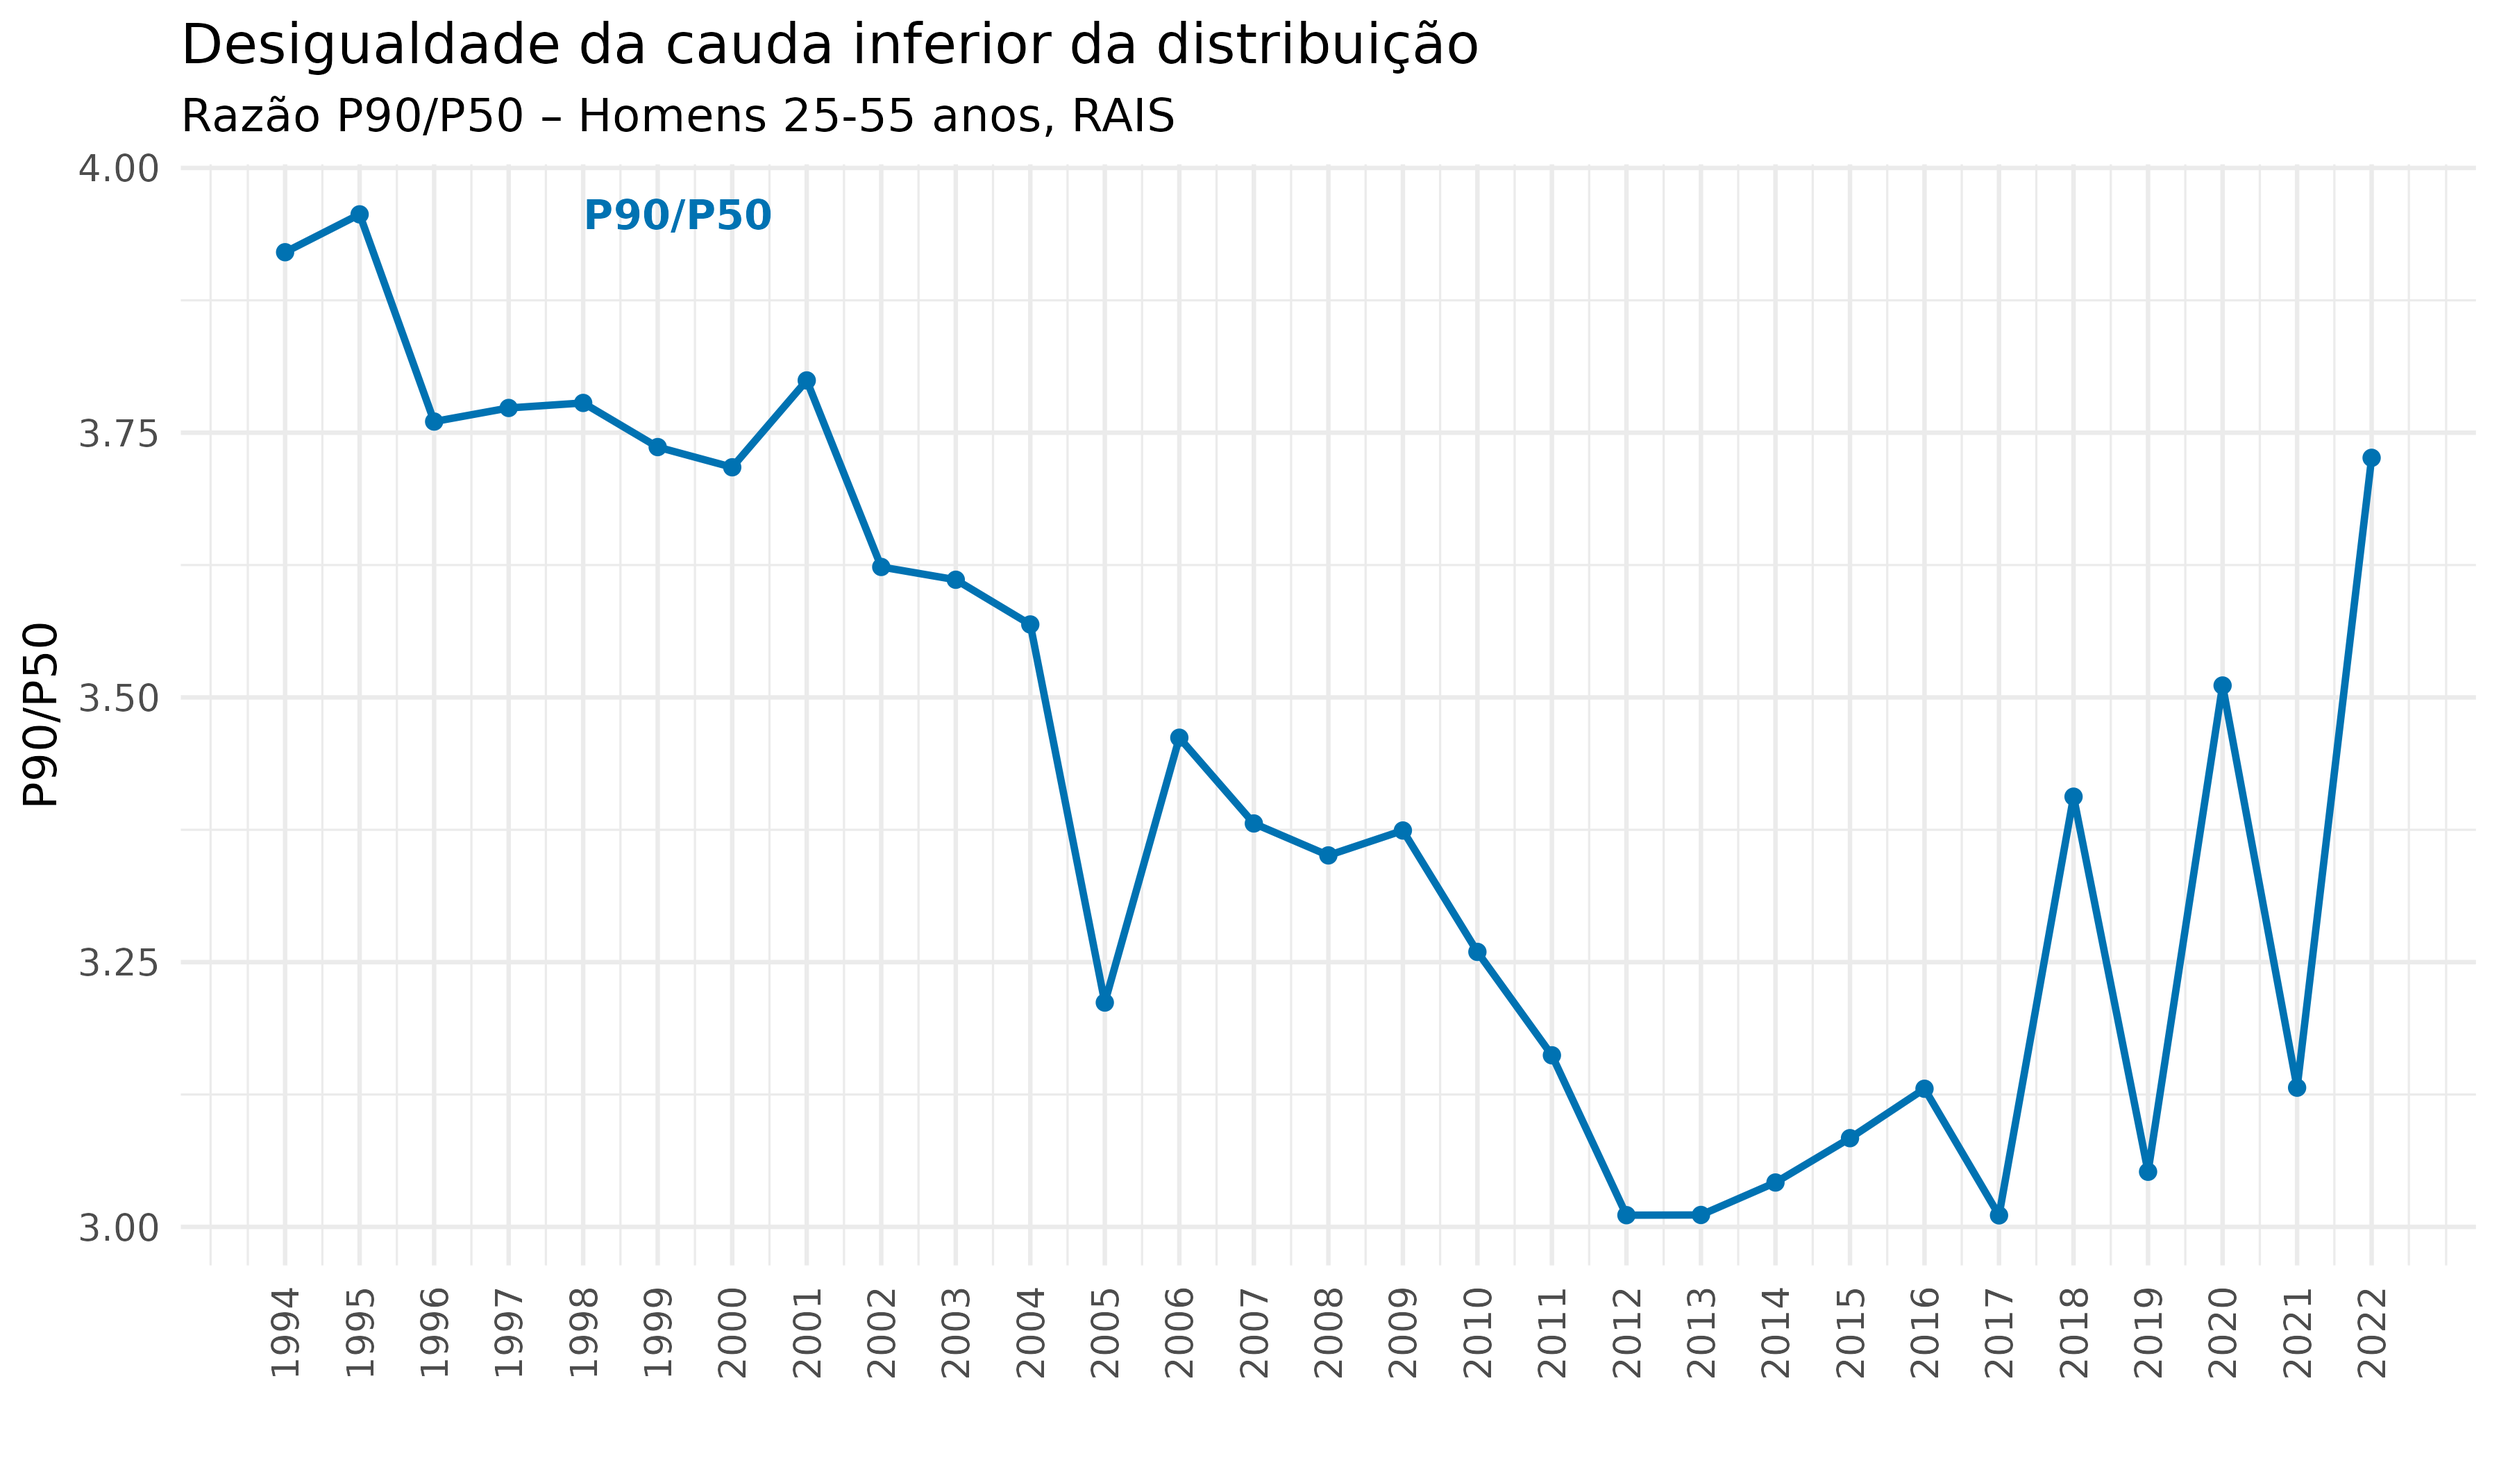
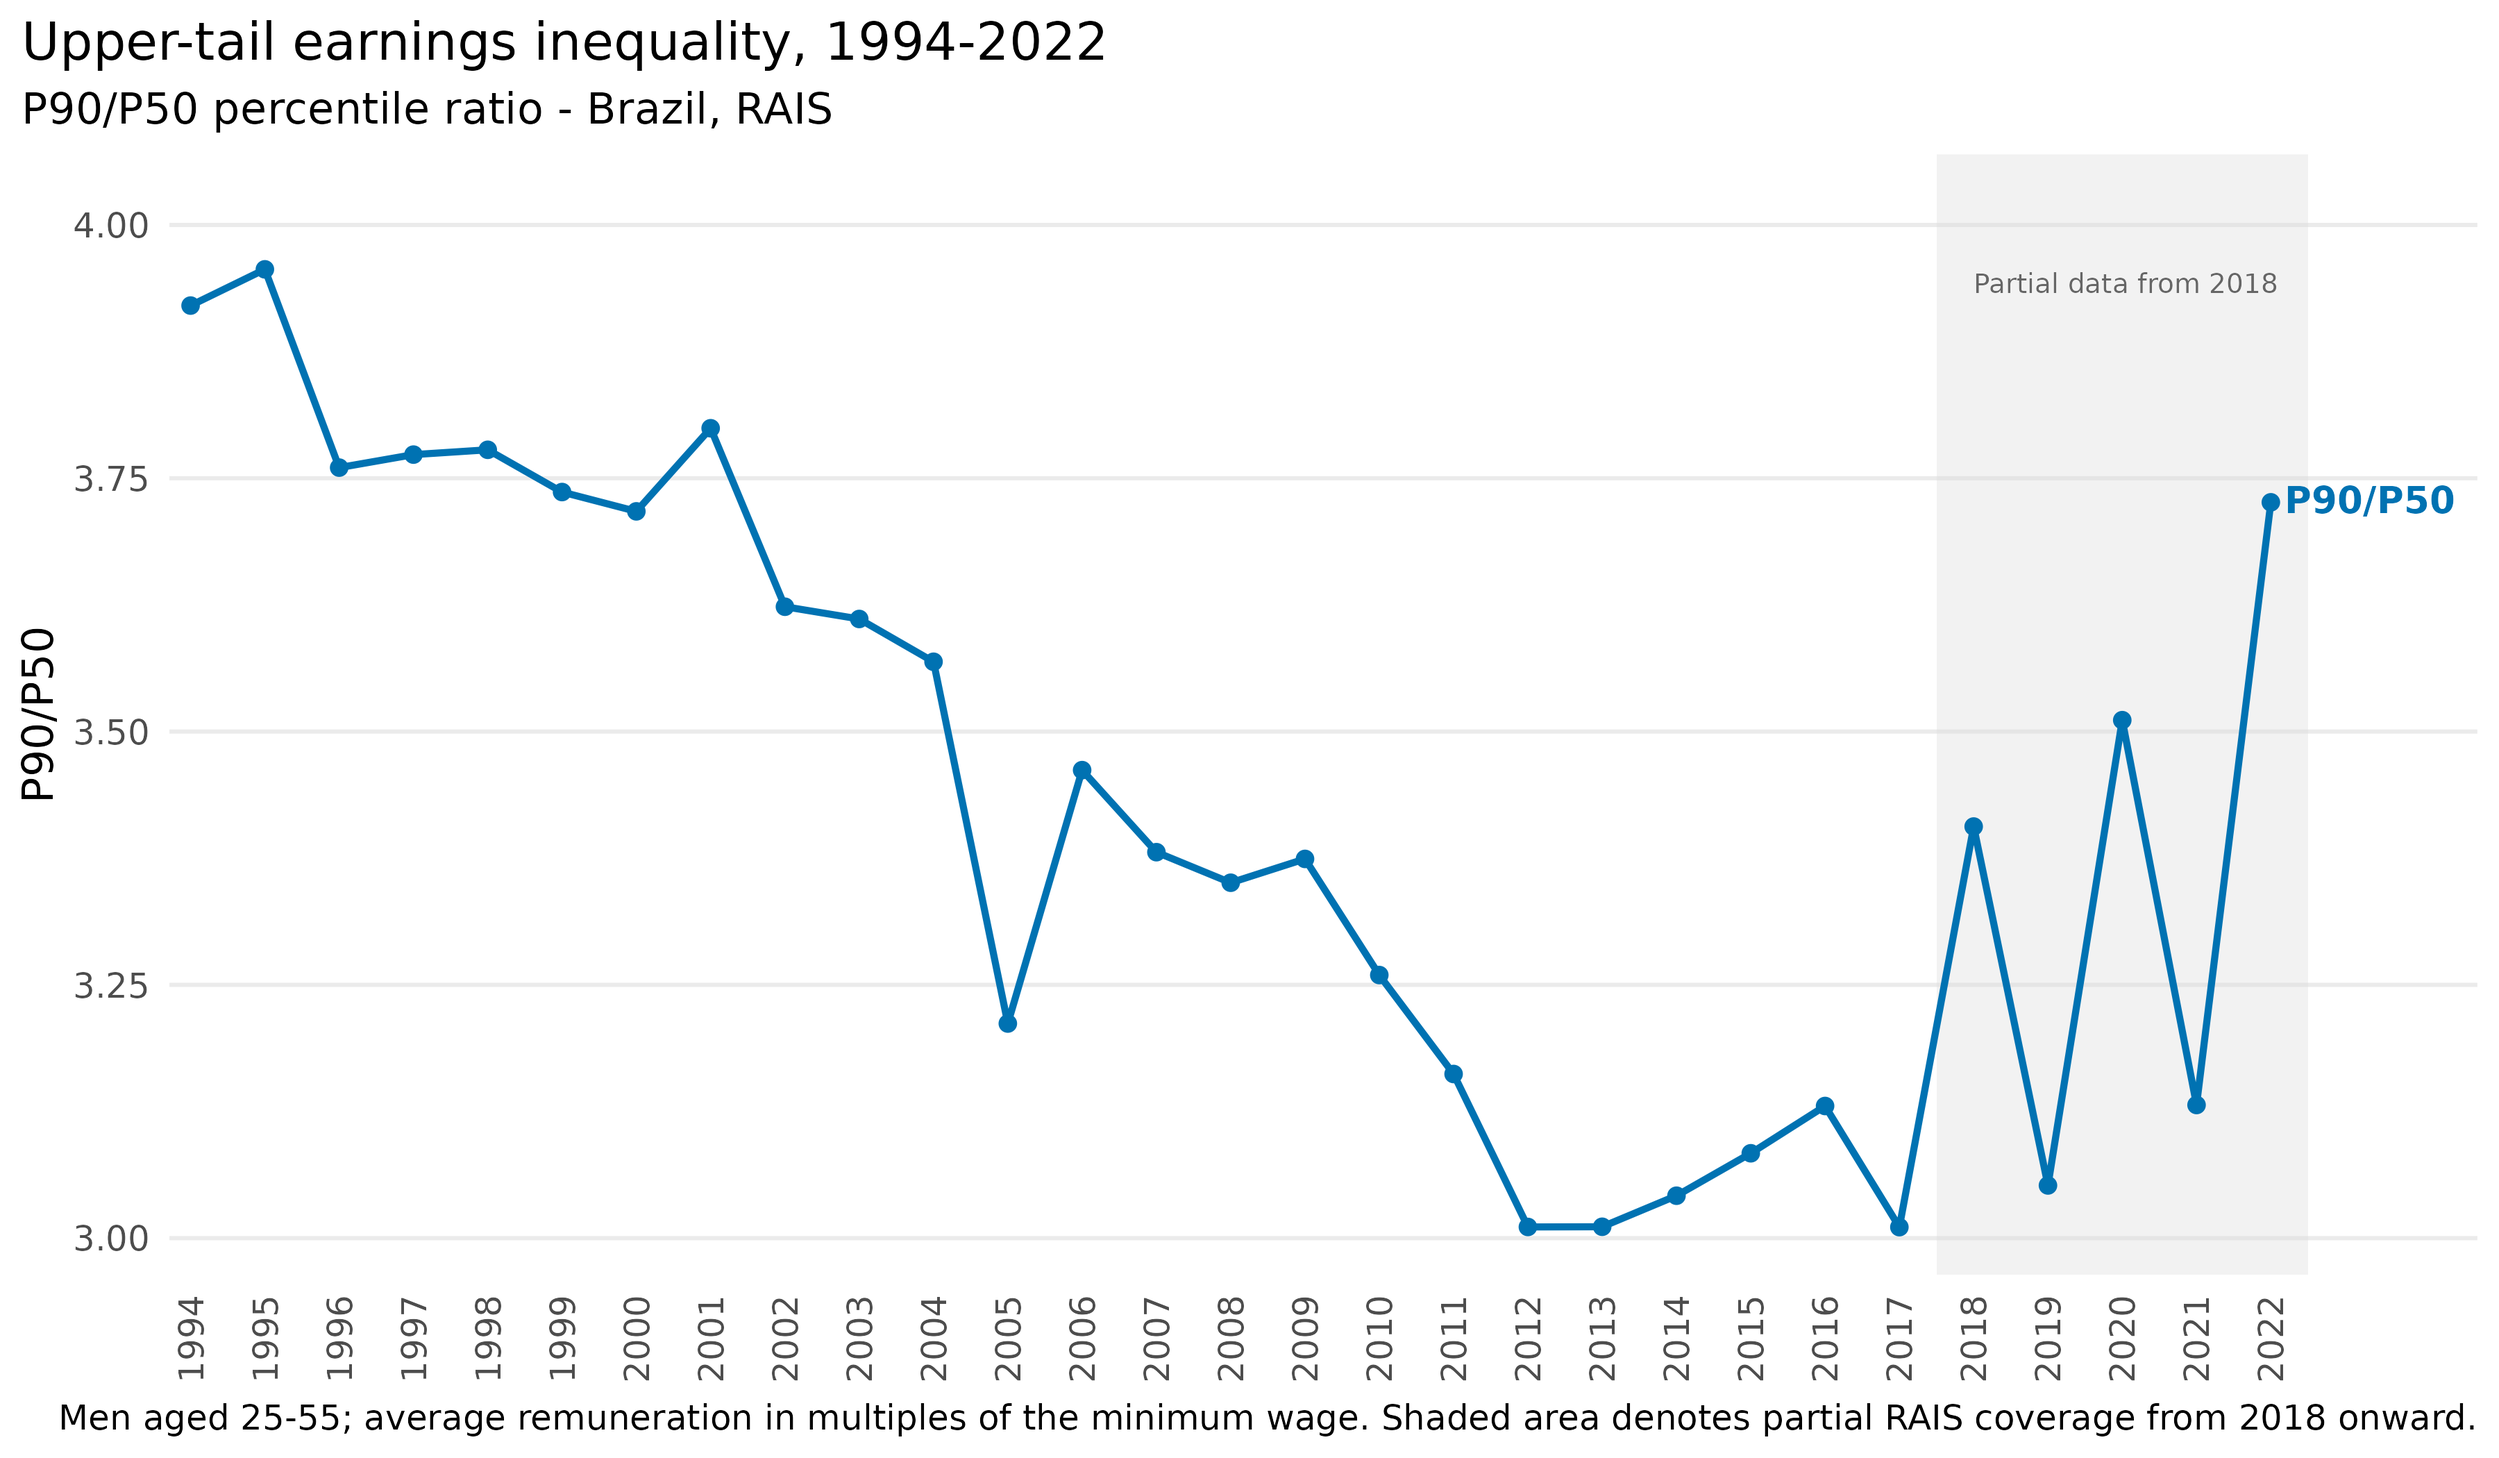
dados R

diff --git a/RAIS/README.md b/RAIS/README.md
@@ -1,0 +1,118 @@
+# RAIS earnings percentiles
+
+This module builds the RAIS descriptive evidence used in the first empirical part of the project.
+It is separated from the PNADC module because the empirical object is different: RAIS is used to
+describe the formal labor earnings distribution, while PNADC is used to estimate labor-market
+transitions across employment, unemployment, and non-participation.
+
+## Output object
+
+The baseline sample follows the current empirical design:
+
+- Men aged 25-55.
+- Formal RAIS employment links.
+- Baseline income variable: `remuneracao_media_sm`.
+- Unit of observation in the current streaming pipeline: `vinculo_ano`.
+- Main percentiles: P20, P50, P90, and P95.
+- Additional stored percentiles: P01, P05, P10, P25, P75, and P99.
+
+Important interpretation note: the baseline income variable is average remuneration in multiples
+of the minimum wage. Therefore, declines in the indexed percentile figures indicate a reduction in
+the number of minimum wages, not necessarily a fall in real earnings.
+
+## Folder structure
+
+- `scripts/08_pipeline_leve_percentis_streaming.R`: downloads/reads RAIS files one year/block at a time and computes annual percentiles without storing the full microdata.
+- `scripts/09_grafico_heathcote_streaming.R`: creates the Heathcote-style percentile figures from the percentile panel.
+- `scripts/10_combinar_paineis_streaming.R`: combines available streaming percentile panels.
+- `scripts/11_graphs.R`: creates percentile-ratio figures, especially P90/P50 and P50/P20.
+- `raw/`: optional local cache for downloaded RAIS `.7z` files.
+- `intermediate/`: checkpoints and processing logs.
+- `final/`: final percentile panels and indexed panels.
+- `figures/`: figures used in the written project.
+
+Some older exploratory scripts live in `../scripts/`. The current RAIS module should rely primarily
+on the scripts listed above.
+
+## Requirements
+
+Install the required R packages once:
+
+```r
+install.packages(c("data.table", "archive", "ggplot2"))
+```
+
+The streaming pipeline downloads RAIS files from the public MTE/RAIS FTP when local files are not
+found. Network access is therefore required for full collection unless the files already exist in
+`raw/`.
+
+## Basic use
+
+From this folder:
+
+```bash
+Rscript scripts/08_pipeline_leve_percentis_streaming.R 1994:2024
+Rscript scripts/09_grafico_heathcote_streaming.R final/painel_percentis_streaming_remuneracao_media_sm_homens_25_55_1994_2024.csv
+Rscript scripts/11_graphs.R
+```
+
+If the percentile panel already exists, you do not need to rerun the heavy RAIS processing. Run only
+the graph scripts:
+
+```bash
+Rscript scripts/09_grafico_heathcote_streaming.R final/painel_percentis_streaming_remuneracao_media_sm_homens_25_55_1994_2024.csv
+Rscript scripts/11_graphs.R
+```
+
+## Useful environment variables
+
+- `RAIS_ANOS`: years to process if not supplied as a command argument. Default: `1994:2024`.
+- `RAIS_UFS`: comma-separated UF list. Default: all UFs available in the script.
+- `RAIS_RENDA_VAR`: income variable used for percentiles. Default: `remuneracao_media_sm`.
+- `RAIS_RAW_DIR`: folder for local `.7z` files. Default: `raw`.
+- `RAIS_BAIXAR_AUSENTES`: whether missing files should be downloaded. Default: `TRUE`.
+- `RAIS_USAR_CACHE_RAW`: whether new downloads should be kept in `raw/`. Default: `FALSE`.
+- `RAIS_MANTER_TEMP`: whether temporary extraction folders should be kept. Default: `FALSE`.
+- `RAIS_ANO_BASE`: base year for indexed figures. Default: `1994`.
+- `RAIS_PARTIAL_COVERAGE_FROM`: year from which figures shade partial coverage. Default: `2018`.
+
+Examples:
+
+```bash
+RAIS_BAIXAR_AUSENTES=FALSE Rscript scripts/08_pipeline_leve_percentis_streaming.R 1994:2017
+RAIS_RENDA_VAR=remuneracao_media_nom Rscript scripts/08_pipeline_leve_percentis_streaming.R 1994:2024
+RAIS_ANO_BASE=1994 Rscript scripts/09_grafico_heathcote_streaming.R final/painel_percentis_streaming_remuneracao_media_sm_homens_25_55_1994_2024.csv
+```
+
+## Main outputs
+
+Typical files generated by the pipeline:
+
+- `final/painel_percentis_streaming_remuneracao_media_sm_homens_25_55_1994_2024.csv`
+- `final/painel_percentis_streaming_indices_base_1994_homens_25_55_1994_2024.csv`
+- `intermediate/log_pipeline_leve_percentis_1994_2024.csv`
+- `figures/heathcote_streaming_desvio_log_1994_2022_homens_25_55.png`
+- `figures/heathcote_streaming_indice_1994_2022_100_homens_25_55.png`
+- `figures/p90_50.png`
+- `figures/p50_20.png`
+
+The exact year range in the figure names is determined by the years actually available in the panel,
+not only by the requested year range.
+
+## Current data caveats
+
+- The current baseline figures in the written project cover 1994-2022, not the full target period 1994-2024.
+- Data from 2018 onward should be treated as partial until all regional RAIS blocks are successfully processed.
+- The variable `remuneracao_media_sm` measures earnings in multiples of the minimum wage. It is useful for studying compression relative to the minimum wage, but it should not be interpreted as real earnings.
+- A real-earnings version should use nominal remuneration deflated by IPCA/INPC, preferably after aggregating all links to the worker-year level.
+- The current streaming pipeline stores `nivel_observacao = "vinculo_ano"`. For a worker-level distribution, the next improvement is to aggregate links by worker/year before calculating percentiles.
+
+## Next improvements
+
+Recommended extensions for the RAIS module:
+
+1. Add a deflated-real-earnings pipeline using nominal remuneration and an official price index.
+2. Add a worker-year aggregation step before computing percentiles.
+3. Add public/private-sector filters and robustness outputs.
+4. Complete or validate the post-2017 regional file processing before treating 2018-2024 as national coverage.
+5. Keep the minimum-wage-multiple figures as a separate institutional/compression exercise rather than the main real-income figure.
